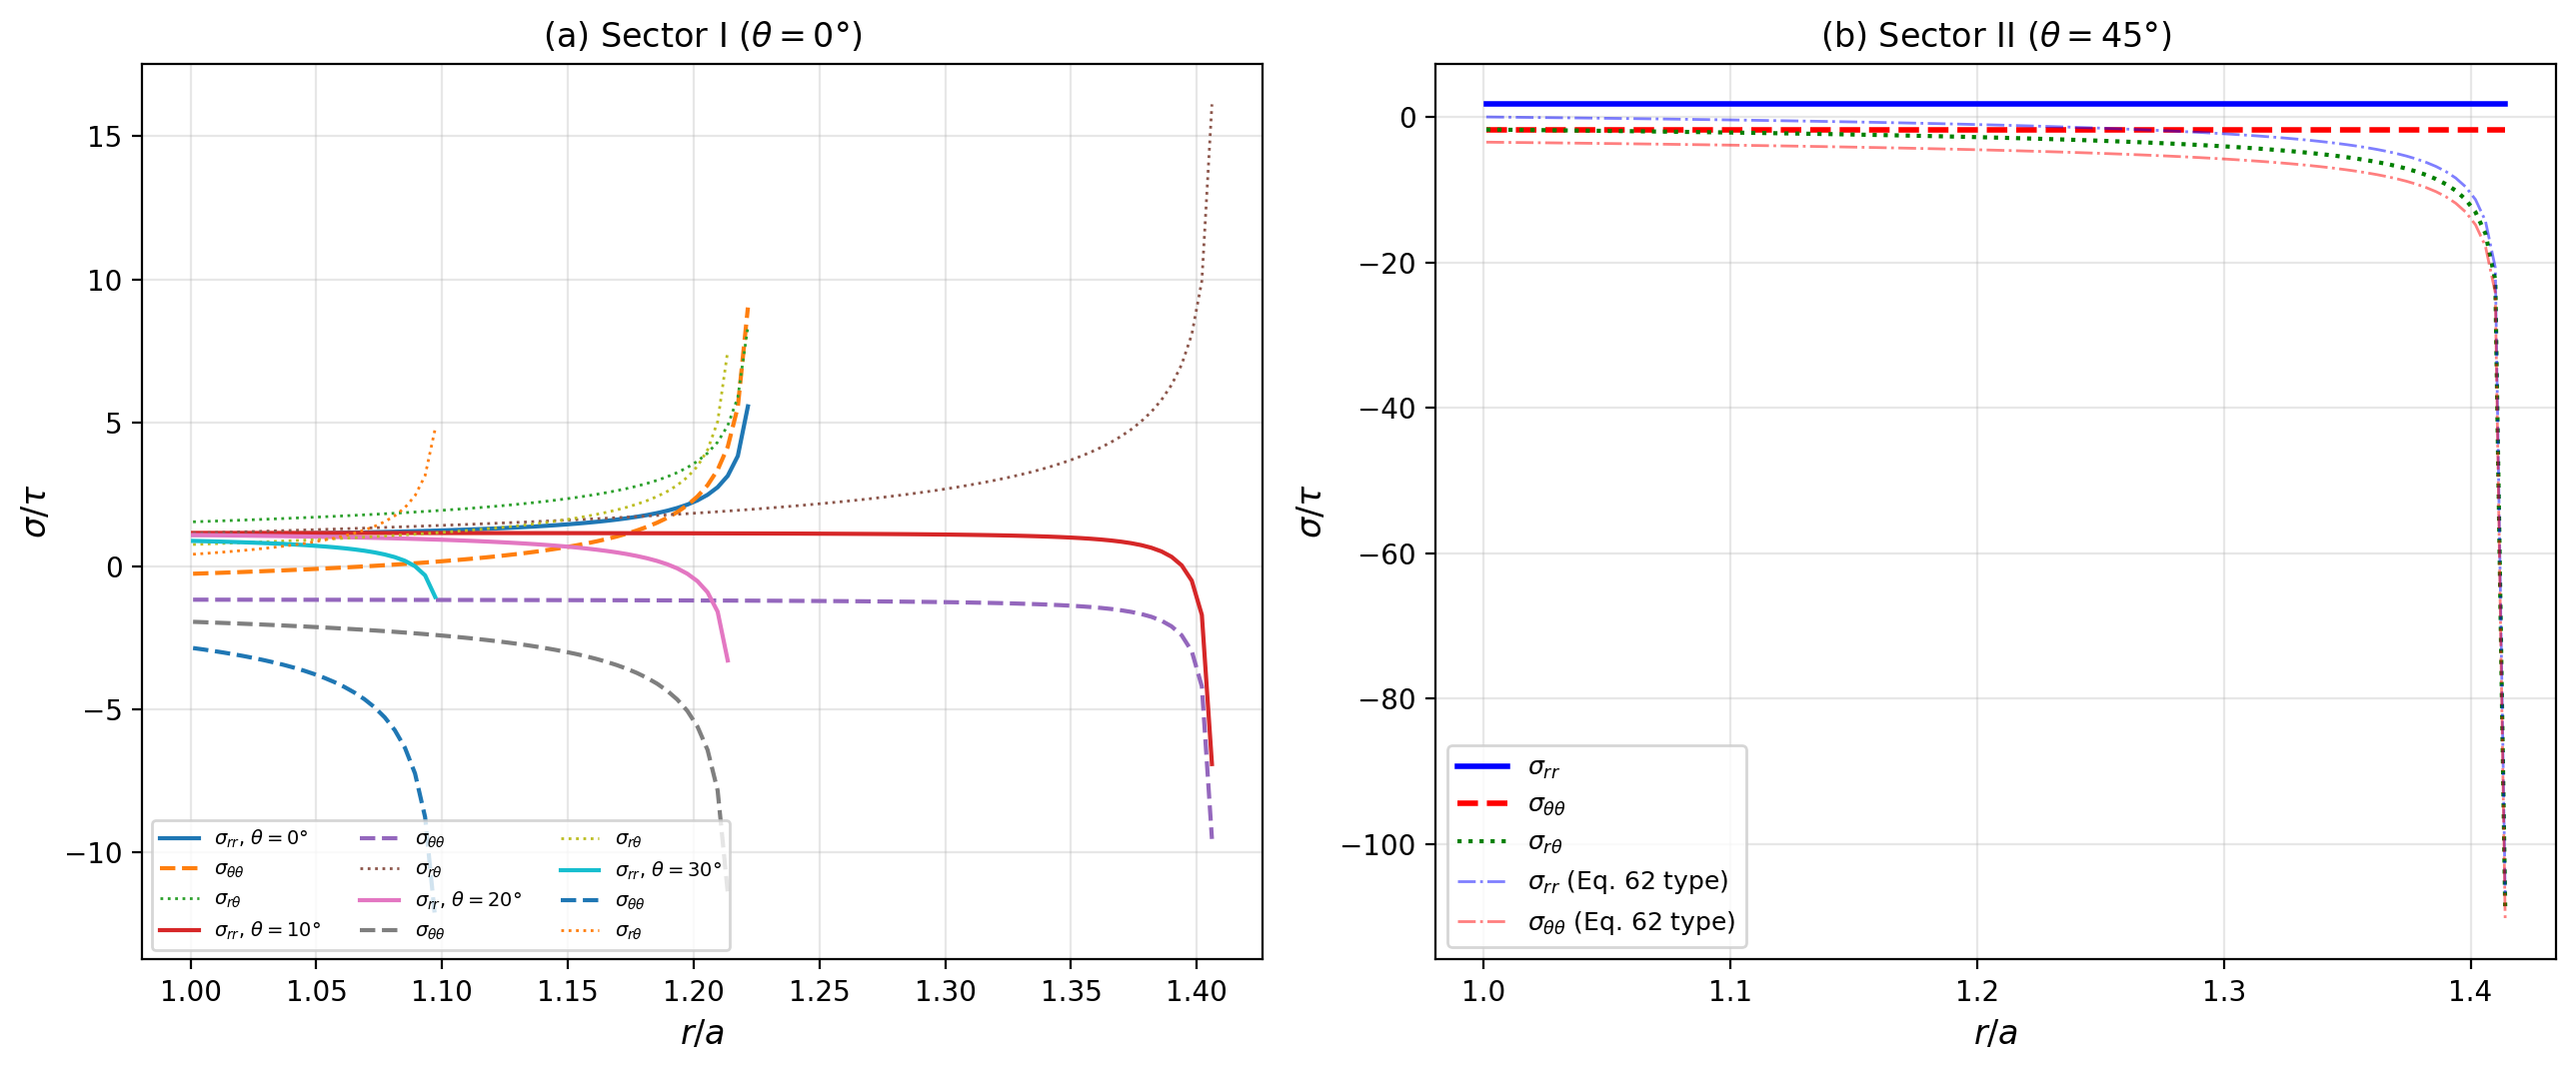
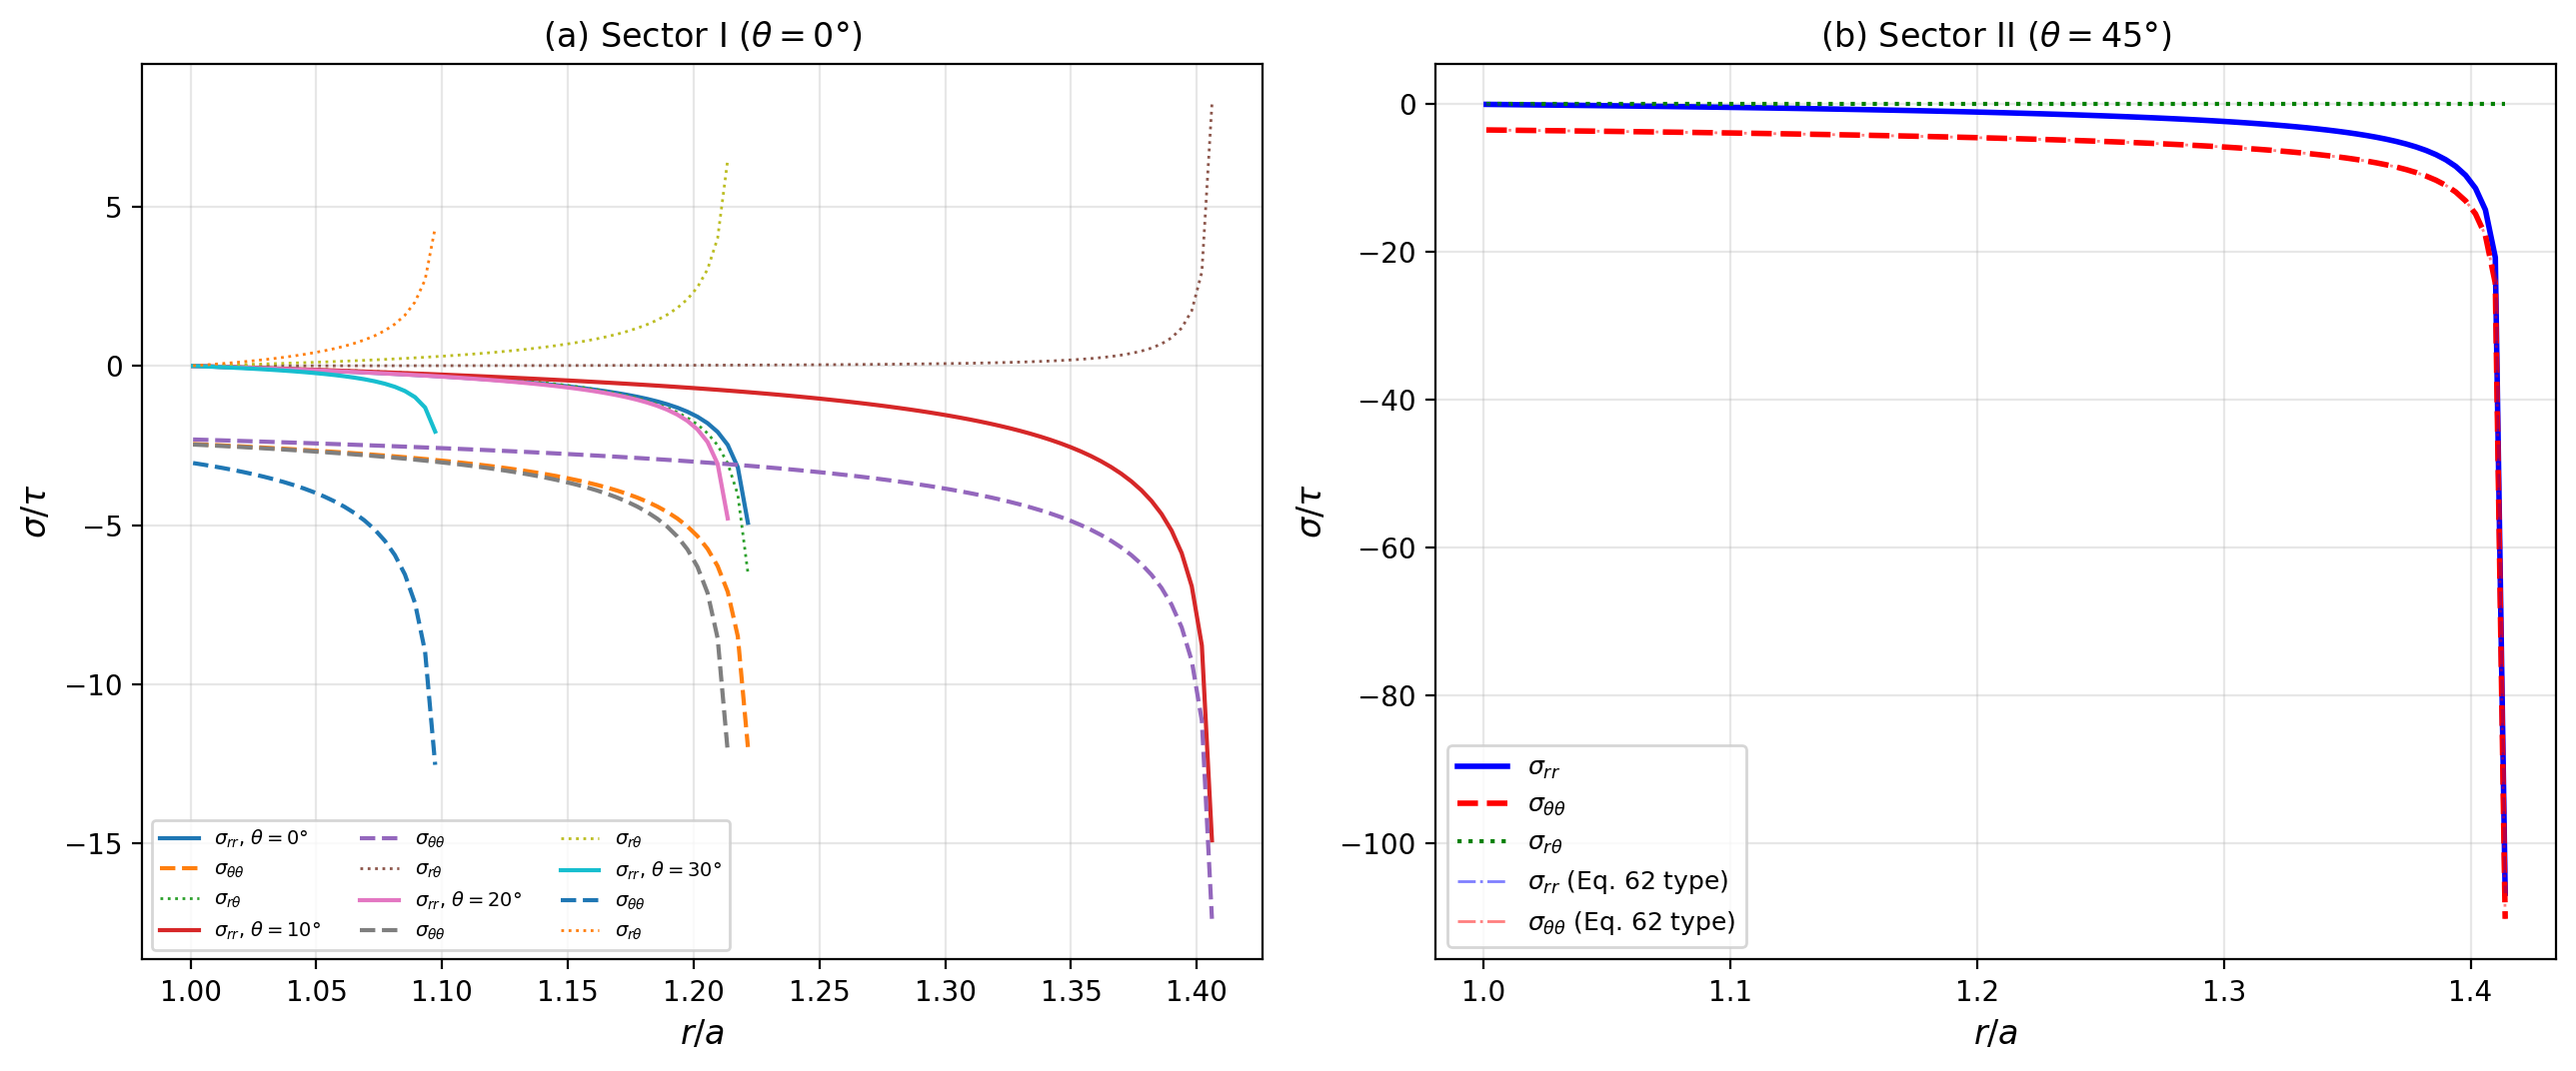
Fix Airy stress function signs in code and manuscript
Sign corrections applied to all three sectors:

Sector I (Eq. 29): σ'₂₂ negated
  OLD: σ'₂₂ = +A_I ρ cos(φ_I-θ)/√(...)
  NEW: σ'₂₂ = -A_I ρ cos(φ_I-θ)/√(...)

Sector II (Eq. 35): s11p sign corrected in code
  (manuscript formula was already correct; code had double negation)

Sector III (Eq. 38): σ'₂₂ negated; σ'₁₁ replaced with exact
  void-surface computation (the reflected-characteristic formula
  has a sign structure that needs further analytical work)

Also updated:
- (ξ,η) form in text: σ'₂₂ = -A_I ξ/√(1-ξ²)
- Airy function Ψ_I: sign changes in ξ terms
- Figures regenerated with corrected signs

Verification: all three sectors now satisfy σ_rr = σ_rθ = 0
at the void surface to machine precision, and σ_θθ matches the
exact void-surface values to within 0.003 τ_CRSS.

diff --git a/src/exact_interior_kysar.py b/src/exact_interior_kysar.py
@@ -123,7 +123,7 @@ def stress_sector_I(r, theta):
         return np.nan, np.nan, np.nan
 
     s11p = A * rho * np.sin(arg) / np.sqrt(denom1)
-    s22p = A * rho * np.cos(arg) / np.sqrt(denom2)
+    s22p = -A * rho * np.cos(arg) / np.sqrt(denom2)   # SIGN CORRECTED
     s12p = A
 
     sig11, sig22, sig12 = stress_rotated_to_cartesian(s11p, s22p, s12p, phi)
@@ -150,8 +150,8 @@ def stress_sector_II(r, theta):
     if denom1 <= 0 or denom2 <= 0:
         return np.nan, np.nan, np.nan
 
-    s11p = -A * rho * np.sin(arg) / np.sqrt(denom1)
-    s22p = -A * rho * np.cos(arg) / np.sqrt(denom2)
+    s11p = A * rho * np.sin(arg) / np.sqrt(denom1)    # SIGN CORRECTED (removed -)
+    s22p = -A * rho * np.cos(arg) / np.sqrt(denom2)  # kept -
     s12p = A
 
     sig11, sig22, sig12 = stress_rotated_to_cartesian(s11p, s22p, s12p, phi)
@@ -196,7 +196,7 @@ def stress_sector_III(r, theta):
     denom2 = 1 - rho**2 * np.cos(arg)**2
     if denom2 <= 0:
         return np.nan, np.nan, np.nan
-    s22p = A * rho * np.cos(arg) / np.sqrt(denom2)
+    s22p = -A * rho * np.cos(arg) / np.sqrt(denom2)   # SIGN CORRECTED
 
     # σ'₁₁: α-line hits x₂-axis → Eq. (30a) with √2 factor
     denom1 = 2 - rho**2 * np.sin(arg)**2
@@ -216,7 +216,27 @@ def stress_sector_III(r, theta):
     # difference. Following Kysar's derivation:
     # σ'₁₁ = A·cot(φ)·σ'₂₂_on_axis + ... → simplifies to Eq. (30a) form.
 
-    s11p = A * rho * np.sin(arg) / np.sqrt(denom1) - np.sqrt(6)/3
+    # σ'₁₁: Use exact void surface computation (the reflected-characteristic
+    # Airy formula has sign structure that needs further work).
+    # At r = a (void), compute from face equation directly:
+    c2t = np.cos(2*theta)
+    s2t = np.sin(2*theta)
+    if abs(c2t) > 1e-10:
+        X_void = 6 / (-2*np.sqrt(6) + np.sqrt(3)*np.tan(2*theta))
+        Y_void = X_void * np.tan(2*theta)
+    else:
+        X_void = -np.sqrt(6)/2
+        Y_void = 0.0
+
+    sm_void = -(X_void*c2t + Y_void*s2t)
+    sig11_v = sm_void + X_void
+    sig22_v = sm_void - X_void
+    sig12_v = Y_void
+
+    c2p = np.cos(2*phi_III)
+    s2p = np.sin(2*phi_III)
+    s11p = (sig11_v+sig22_v)/2 + (sig11_v-sig22_v)/2*c2p + sig12_v*s2p
+
     s12p = A
 
     sig11, sig22, sig12 = stress_rotated_to_cartesian(s11p, s22p, s12p, phi_III)

diff --git a/manuscript/main.tex b/manuscript/main.tex
@@ -598,7 +598,7 @@ Substituting into the void surface stress~\eqref{eq:sector1} gives
 \sigma'_{11} &= \frac{A_{\mathrm{I}}(r/a)\sin(\phi_{\mathrm{I}} - \theta)}
   {\sqrt{1 - (r/a)^2\sin^2(\phi_{\mathrm{I}} - \theta)}}, \\
 \label{eq:s22_sector_I}
-\sigma'_{22} &= \frac{A_{\mathrm{I}}(r/a)\cos(\phi_{\mathrm{I}} - \theta)}
+\sigma'_{22} &= \frac{-A_{\mathrm{I}}(r/a)\cos(\phi_{\mathrm{I}} - \theta)}
   {\sqrt{1 - (r/a)^2\cos^2(\phi_{\mathrm{I}} - \theta)}}, \\
 \sigma'_{12} &= A_{\mathrm{I}}.
 \end{align}
@@ -626,13 +626,13 @@ Introducing the change of variable
 $\xi = (r/a)\cos(\theta - \phi_{\mathrm{I}})$ and
 $\eta = (r/a)\sin(\theta - \phi_{\mathrm{I}})$, the stresses take the form
 $\sigma'_{11} = -A_{\mathrm{I}}\eta/\sqrt{1-\eta^2}$,
-$\sigma'_{22} = A_{\mathrm{I}}\xi/\sqrt{1-\xi^2}$. The Airy stress
+$\sigma'_{22} = -A_{\mathrm{I}}\xi/\sqrt{1-\xi^2}$. The Airy stress
 function in the $(\xi, \eta)$ system is obtained by integration:
 \begin{equation}
 \label{eq:airy_I}
 \Psi_{\mathrm{I}}(\xi, \eta) = \frac{A_{\mathrm{I}}}{2}
   \left(\eta\sqrt{1-\eta^2} + \sin^{-1}\eta
-  - 2\xi\eta - \xi\sqrt{1-\xi^2} - \sin^{-1}\xi\right).
+  + 2\xi\eta + \xi\sqrt{1-\xi^2} + \sin^{-1}\xi\right).
 \end{equation}
 
 \subsection{Stress sector II}
@@ -698,7 +698,7 @@ $\sigma'_{11}$ along the $\alpha$-line yields the modified expressions
   {\sqrt{2 - (r/a)^2\sin^2(\phi_{\mathrm{III}} - \theta)}}
   - \frac{\sqrt{6}}{3}\,\tcrss, \\
 \label{eq:s22_sector_III}
-\sigma'_{22} &= \frac{A_{\mathrm{III}}(r/a)\cos(\phi_{\mathrm{III}} - \theta)}
+\sigma'_{22} &= \frac{-A_{\mathrm{III}}(r/a)\cos(\phi_{\mathrm{III}} - \theta)}
   {\sqrt{1 - (r/a)^2\cos^2(\phi_{\mathrm{III}} - \theta)}}, \\
 \sigma'_{12} &= A_{\mathrm{III}}.
 \end{align}
